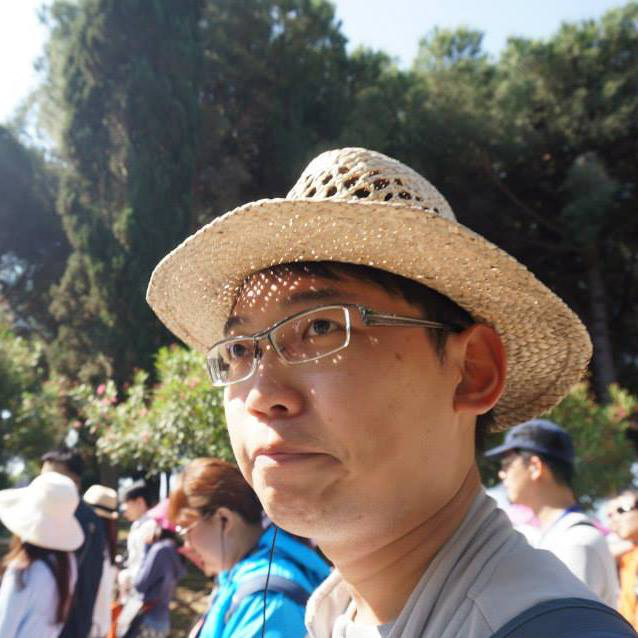
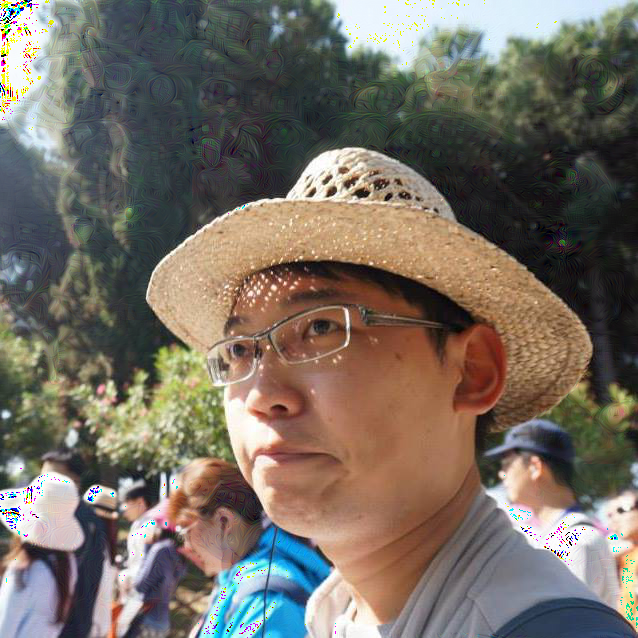
5

diff --git a/GA001.py b/GA001.py
@@ -23,7 +23,7 @@ from torchvision import models
 reference code from https://gist.github.com/rowantseng/276363b8a89fbb84d77ab968866abe36
 '''
 
-lr = 1e-5
+lr = 10
 epoch = 10000000
 batch = 1
 show_bs = 100
@@ -172,6 +172,9 @@ def NMS(class_box, class_label, class_mask, IOU_T=0.3):
     
 transform = T.ToTensor()
 
+T_image = T.Compose([T.ToTensor(),
+                     T.Normalize(mean=[0.485, 0.456, 0.406], std=[0.229, 0.224, 0.225])])
+
 try:
     image_path = './results/AA_Resnet.png'
     image = Image.open(image_path).convert("RGB")
@@ -179,7 +182,7 @@ except:
     image_path = './data/AA_Resnet.jpg'
     print(' *** use origin picture *** ')
     image = Image.open(image_path).convert("RGB")   
-image_tensor = transform(image)
+image_tensor = T_image(image)
 image_tensor = image_tensor.unsqueeze(0)
 print(image_tensor.size())
 
@@ -304,9 +307,18 @@ for i in range(epoch):
     if i%show_bs==0:
         pic = image_tensor[0].cpu()
         
-        reT = T.Compose([T.ToPILImage()])
-    
+        # reT = T.Compose([T.ToPILImage()])        
+        reT = T.Compose([T.Normalize(mean=[0., 0., 0.], std=[1/0.229, 1/0.224, 1/0.225]),
+                         T.Normalize(mean=[-0.485, -0.456, -0.406], std=[1., 1., 1.]),
+                         ])
+        reT2 = T.ToPILImage()
+        
         REV_pic = reT(pic)
+        REV_pic[REV_pic<0]=0.
+        REV_pic[REV_pic>255]=255.
+        
+        REV_pic = reT2(REV_pic)
+        
         REV_pic.save('./results/AA_Resnet.png')
         
         REV_pic.save(f'./results/results/AA_Resnet_{i}.png')
@@ -320,9 +332,7 @@ for i in range(epoch):
         print(f'remain time: {epoch*(time.time()-t0)/(60*i+1)}')
     
     # pic = image_tensor.permute(0,2,3,1).detach().numpy()[0]
-    # reT = T.Compose([T.Normalize(mean=[0., 0., 0.], std=[1/0.229, 1/0.224, 1/0.225]),
-    #                           T.Normalize(mean=[-0.485, -0.456, -0.406], std=[1., 1., 1.]),
-    #                           T.ToPILImage()]) 
+
     
     # calculate the grading
     # detector.train()
@@ -330,7 +340,10 @@ for i in range(epoch):
     
     loss = detector(image_tensor,target)
     
-    total_loss = loss['loss_classifier']+loss['loss_box_reg']+loss['loss_mask']+loss['loss_rpn_box_reg']
+    if i > 1e5:
+        total_loss = loss['loss_classifier']+loss['loss_box_reg']+loss['loss_mask']+loss['loss_rpn_box_reg']
+    else:
+        total_loss = loss['loss_classifier']+loss['loss_box_reg']+loss['loss_rpn_box_reg']
     
     total_loss.backward()
     
